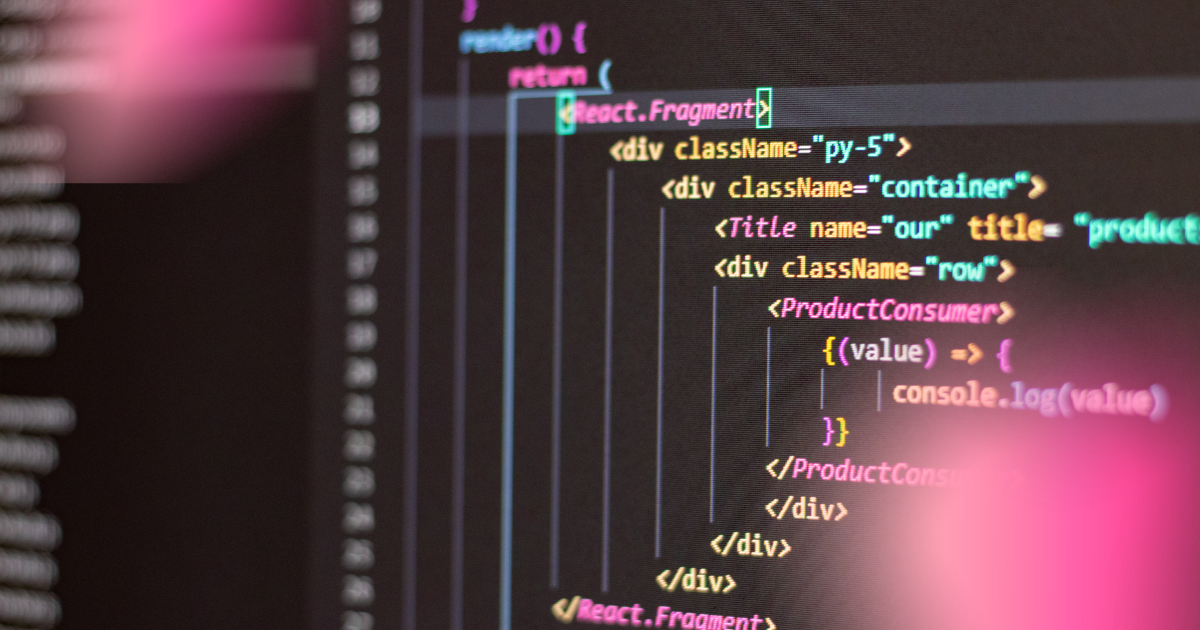
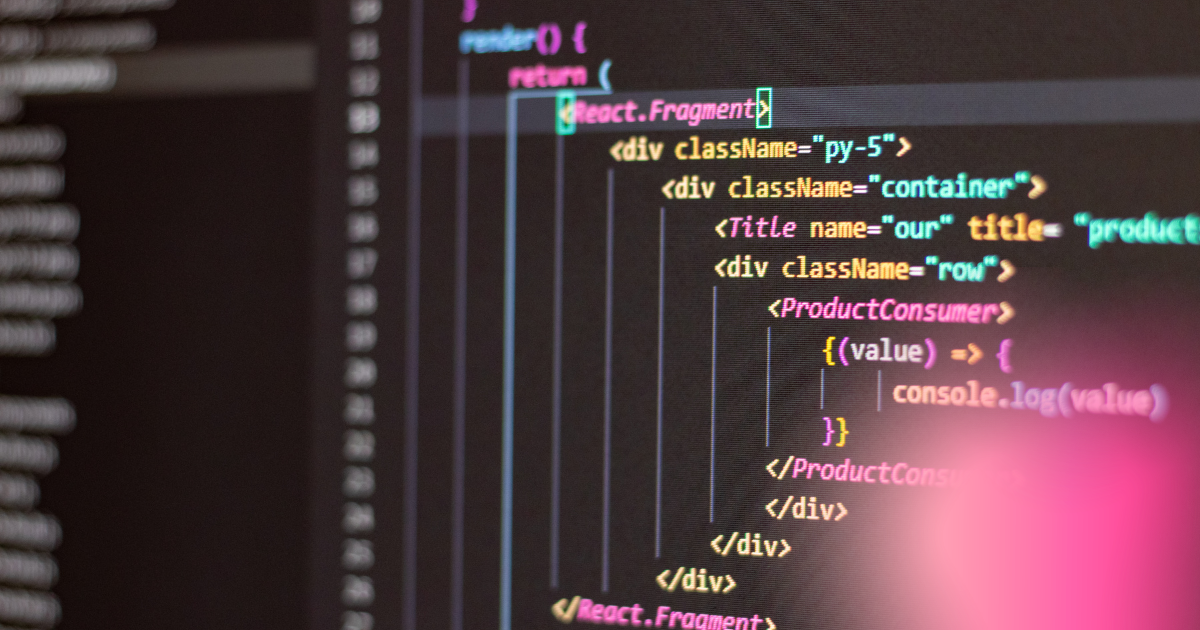
content: publish software design and Shopify admin extensions blog posts

Changed region(s): [[0.0, 0.0, 0.2775, 0.3016]]

diff --git a/backend/posts/how-to-design-software-before-writing-code.md b/backend/posts/how-to-design-software-before-writing-code.md
@@ -1,0 +1,240 @@
+---
+title: How Do You Design Software Before Writing a Single Line of Code?
+slug: how-to-design-software-before-writing-code
+excerpt: The best software decisions happen long before the first commit. A walkthrough of turning a raw idea into a well-structured, thought-through project.
+tags: [software-design, architecture, planning]
+coverImage: /assets/blog/how-to-design-software-before-writing-code.png
+published: true
+---
+
+Have you ever had that feeling — opening your editor, spinning up a new React, Next.js, or Spring Boot project, and just starting to build immediately? For the first few days, everything makes sense. Screens show up, features come together, and the project moves fast.
+
+Then, a few weeks in, the problems start.
+
+A business rule changes and it affects five different screens. A simple feature requires touching dozens of files. The database no longer reflects what the business actually needs. The API has to be rebuilt. The frontend spends more time working around backend limitations than actually delivering value to the user.
+
+If that's happened to you, know this: it's usually not a coding problem. Most of the time, it's a planning problem.
+
+There's a well-known line in software engineering:
+
+"Code is the cheapest part to change. The expensive part is discovering you built the wrong thing."
+
+That's exactly why big companies spend days, sometimes weeks, planning before anyone writes a single line of code.
+
+Designing software doesn't mean producing hundreds of bureaucratic documents. It means deeply understanding the problem, setting clear goals, and making conscious decisions before implementation.
+
+In this article, I want to walk through the full process of turning an idea into a well-structured software project.
+
+## The first mistake: starting with the technology
+
+Imagine someone says:
+
+"I want to build a system using Next.js."
+
+The first question should be:
+
+To solve what problem?
+
+Technologies are tools. They're not the goal.
+
+Before choosing between React, Vue, Angular, or Java, you need to understand *why* that software is being built in the first place.
+
+Every application exists to solve a real problem. It might be:
+
+- reducing manual work
+- cutting costs
+- automating processes
+- increasing sales
+- improving the customer experience
+- integrating systems
+- generating information for decision-making
+
+Once you understand the problem, technical choices start making a lot more sense.
+
+## Every piece of software starts with questions
+
+Before thinking about databases or architecture, ask questions.
+
+Who's going to use this system?
+
+What problems do these people face today?
+
+How do they handle this process right now?
+
+What causes the most rework?
+
+What information needs to be stored?
+
+What decisions depend on this system?
+
+The answers become the project's requirements.
+
+Take an insurance system as an example. Instead of jumping straight to APIs, think about the people involved.
+
+There's the broker. There's the insurer. There's the customer. There's the platform admin.
+
+Each one has completely different needs.
+
+The broker wants to generate quotes quickly. The insurer needs to analyze proposals. The customer wants to track their request. The admin needs to see metrics and control access.
+
+Notice that no technical decision has been made yet — we're just understanding the business.
+
+## Functional and non-functional requirements
+
+Once you understand the problem, you start organizing requirements.
+
+Functional requirements describe what the system should do. For example:
+
+- register customers
+- generate quotes
+- issue proposals
+- look up policies
+- cancel contracts
+
+Non-functional requirements describe how the system should behave. For example:
+
+- respond in under two seconds
+- support thousands of concurrent users
+- maintain 99.9% availability
+- log an audit trail for every operation
+- protect sensitive data under LGPD (Brazil's data protection law)
+
+It's common for teams to focus all their attention on features and forget about non-functional requirements — but those are exactly what determine the software's actual quality.
+
+## Get to know the business rules deeply
+
+This is where projects really start to separate from each other.
+
+Writing code is relatively simple. Understanding a complex business is a lot harder.
+
+Take that insurance system again.
+
+Does every quote turn into a proposal? No.
+
+Does every proposal turn into a policy? Also no.
+
+What situations prevent that? Which documents are required? Who can approve something? Who can cancel it? Which steps need authorization?
+
+Each of these answers is a business rule. The earlier they're discovered, the less rework you'll deal with during development.
+
+## Map the user's journey
+
+Now try to visualize the path each type of user takes through the system.
+
+For example: Customer → Sign up → Log in → Request → Track → Complete.
+
+This flow helps surface screens, integrations, and features you might not have noticed at first.
+
+A common technique is sketching this journey on a whiteboard or in a tool like Figma, Miro, or Excalidraw. It doesn't need to look good. It just needs to be understandable.
+
+## Discover the problem domain
+
+One of the most important ideas in modern engineering is that software represents a business.
+
+That means we need to figure out the core concepts of that specific domain.
+
+A hospital system has patients, doctors, appointments, and exams. An e-commerce platform has products, orders, payments, and deliveries. A logistics system has orders, carriers, warehouses, and routes.
+
+These concepts get used throughout the entire development process. When the language in the code gets closer to the language the business actually uses, communication between developers and domain experts becomes much easier.
+
+## Think about events, not just screens
+
+An interesting way to understand a system is to imagine everything that happens inside it.
+
+Customer registered. Order created. Payment approved. Invoice issued. Product shipped. Order delivered.
+
+These events tell almost the entire story of the software. Thinking this way helps you discover whole processes before you've written a single line of implementation.
+
+## Model the entities
+
+Once you understand the domain, it becomes much easier to figure out which objects will actually exist in the system.
+
+Customer. Product. Order. Payment.
+
+Each entity has its own attributes.
+
+A customer has a name, a tax ID, an email, a phone number. A product has a code, a description, a price. An order has a status, a total value, a creation date.
+
+This model becomes the foundation for both the database and the code.
+
+## Plan the architecture before the code
+
+Architecture doesn't mean microservices.
+
+Architecture means organizing responsibilities.
+
+Good software usually keeps clear separation between:
+
+- the interface
+- business rules
+- data access
+- external integrations
+- infrastructure
+
+That separation reduces coupling and makes maintenance easier. When a rule changes, it should affect as few components as possible.
+
+## Define how systems will talk to each other
+
+These days, practically every application talks to other applications. That's why it's worth planning your APIs before implementation.
+
+What information gets sent? What responses come back? What errors can happen? How is authentication handled? How do you manage future versions?
+
+When these contracts get defined early, frontend and backend can work in parallel.
+
+## Build prototypes
+
+A common mistake is thinking prototypes are just for designers.
+
+In reality, they save weeks of development time. A fifteen-minute conversation over a prototype can prevent days of rework.
+
+You don't need pixel-perfect interfaces — a simple sketch is often enough to validate ideas with users and clients.
+
+## Think about scalability from day one
+
+Not every system starts out big. But every good project starts out ready to grow.
+
+It's worth thinking through questions like:
+
+Could this system handle thousands of concurrent users? Will it need caching? Will the data need an audit trail? Will there be integrations with other systems? Will background jobs be needed?
+
+Answering these early avoids rushed decisions down the line.
+
+## Plan how you'll test
+
+Another common mistake is leaving testing for the end.
+
+In practice, testing is part of the design itself. Ask from the start:
+
+How do you validate this feature? What failure scenarios exist? What critical behaviors need to be protected?
+
+Thinking about tests during the planning phase tends to produce simpler, more decoupled code.
+
+## Break the project into small deliveries
+
+After all that preparation, it's time to organize the actual work.
+
+Instead of thinking about the whole system at once, break it into small pieces. For example:
+
+Sprint 1 — Authentication. Sprint 2 — Customer registration. Sprint 3 — Products. Sprint 4 — Orders. Sprint 5 — Payments.
+
+Each delivery creates value and lets you collect feedback quickly.
+
+## Only now, write code
+
+Notice how the actual programming only shows up at the very end of this process.
+
+By this point, you already know the problem, the users, the business rules, the flows, the entities, the architecture, the APIs, the security requirements, and the project's risks.
+
+Code stops being a series of guesses and becomes the implementation of a carefully thought-out plan.
+
+## Good software is born long before the first commit
+
+There's an idea that's pretty widespread among experienced engineers: writing code is only a small part of building software.
+
+The decisions that actually determine a project's quality happen before that — when you understand the business, validate assumptions, sketch flows, organize responsibilities, and plan how the system will evolve over the coming years.
+
+The better that planning is, the less rework you'll deal with, the easier maintenance becomes, and the more capable the software is of keeping up with the business as it grows.
+
+At the end of the day, designing software isn't about delaying development. It's investing a few hours of thinking to save hundreds of hours of fixing things later.
+
+And maybe that's one of the most important lessons in software engineering: the best code isn't always the one written fastest — it's the one that came from a well-thought-out design.

diff --git a/backend/posts/turning-shopify-admin-into-your-playground.md b/backend/posts/turning-shopify-admin-into-your-playground.md
@@ -1,0 +1,104 @@
+---
+title: Turning the Shopify Admin Into Your Playground
+slug: turning-shopify-admin-into-your-playground
+excerpt: Shopify lets you build apps that live right inside the Admin — buttons, panels, and modals exactly where merchants already work. Here's how Admin UI Extensions work.
+tags: [shopify, ecommerce, web-development]
+coverImage: /assets/blog/turning-shopify-admin-into-your-playground.png
+published: true
+---
+
+When most people think about Shopify apps, they imagine a pop-up dashboard living outside the store — another tab, another login, another disconnected experience.
+
+But here's the cool part: Shopify actually lets you build apps that live inside the Shopify Admin itself. You can create buttons, panels, modals, and even custom blocks that appear right where merchants manage their business every day.
+
+This magic happens through something called Admin UI Extensions, officially documented in Shopify's Admin Apps guide.
+
+Let's unpack how this works, and why it turns the Shopify Admin into your personal developer playground.
+
+## What Are Admin UI Extensions?
+
+According to Shopify's documentation, Admin UI Extensions are custom UI components that your app can embed directly inside the Admin. They appear within Shopify's native interface, so the experience feels consistent and trustworthy for merchants.
+
+Think of them as micro-interfaces that run inside Shopify, securely connected to your app's backend through authentication and APIs.
+
+You can use them to:
+
+- Add new actions (like buttons or modals for orders, products, or customers)
+- Display extra information blocks (custom data, reports, or tools)
+- Trigger workflows (update inventory, send data to an ERP, etc.)
+
+All while staying inside the Shopify Admin — no need to open a new tab or a custom dashboard.
+
+## Two Main Types: Actions and Blocks
+
+Shopify's UI extensions framework defines two key patterns:
+
+**Admin Actions** — extensions that appear in menus like "More actions" or "Bulk actions." They open a modal when clicked.
+
+**Admin Blocks** — embedded panels inside resource pages (like a product or order page). They stay visible as part of the layout.
+
+You can even combine both — for example, use a Block to show data and an Action to let merchants update it.
+
+## The Architecture: Frontend Meets Backend
+
+While your extension lives visually inside the Shopify Admin, the real logic still happens in your app's backend. Shopify provides a clean bridge between the two.
+
+Here's the flow, as described in the official "Connect UI extensions to your backend" doc:
+
+1. Your UI extension (built with React or vanilla JS) calls your backend routes using `fetch()`.
+2. Shopify automatically attaches authentication headers using the merchant's session.
+3. Your backend must respond with proper CORS headers, which you can easily handle with `authenticate.admin(cors)`.
+4. Data flows back to the UI, securely and seamlessly.
+
+In short: your app's brain lives in your backend, but its face lives inside the Admin.
+
+## Getting Started (Step by Step)
+
+The best part? You don't have to set everything up manually — Shopify's CLI does the heavy lifting.
+
+From the "Scaffold an app" guide:
+
+```
+npm init @shopify/app@latest
+```
+
+Then, when you want to add an Admin Action or Block:
+
+```
+shopify app generate extension
+```
+
+Follow the prompts, pick "Admin Action" or "Admin Block," and the CLI will scaffold a React-based extension ready to customize.
+
+Shopify even provides a complete example on GitHub combining both types in one project — perfect for learning the full lifecycle.
+
+## Real-World Example
+
+Let's say you want to create an "Issue Tracker" directly inside Shopify:
+
+1. **Admin Action** — adds a button under "More actions" on the Product page called "Create issue."
+2. When clicked, a modal opens (your extension's UI). The merchant fills out an issue title and description.
+3. The extension calls your backend API (`/api/issues`) with the form data.
+4. Your backend saves it to your database and maybe triggers a webhook to your support tool.
+5. A **Block** extension on the same page shows all open issues for that product.
+
+You just built a complete mini-system without ever leaving Shopify.
+
+## Why It Matters
+
+For merchants:
+
+- They stay in one place.
+- Faster workflows, fewer tabs, and no confusing redirects.
+
+For developers:
+
+- You get to build real functionality inside Shopify.
+- You leverage Shopify's authentication, APIs, and UI consistency.
+- You move from "theme customizer" to Shopify engineer — someone who shapes the platform itself.
+
+Shopify Admin UI Extensions are more than just another API feature — they're an invitation to build smarter tools where merchants already live.
+
+You're no longer limited to apps that live outside the ecosystem. You can now turn the Shopify Admin into your playground, designing experiences that blend into the daily rhythm of commerce.
+
+Start small, explore the docs, and build something that actually makes a merchant's day easier. Because when you build inside Shopify, you're not just creating an app — you're extending the platform itself.
